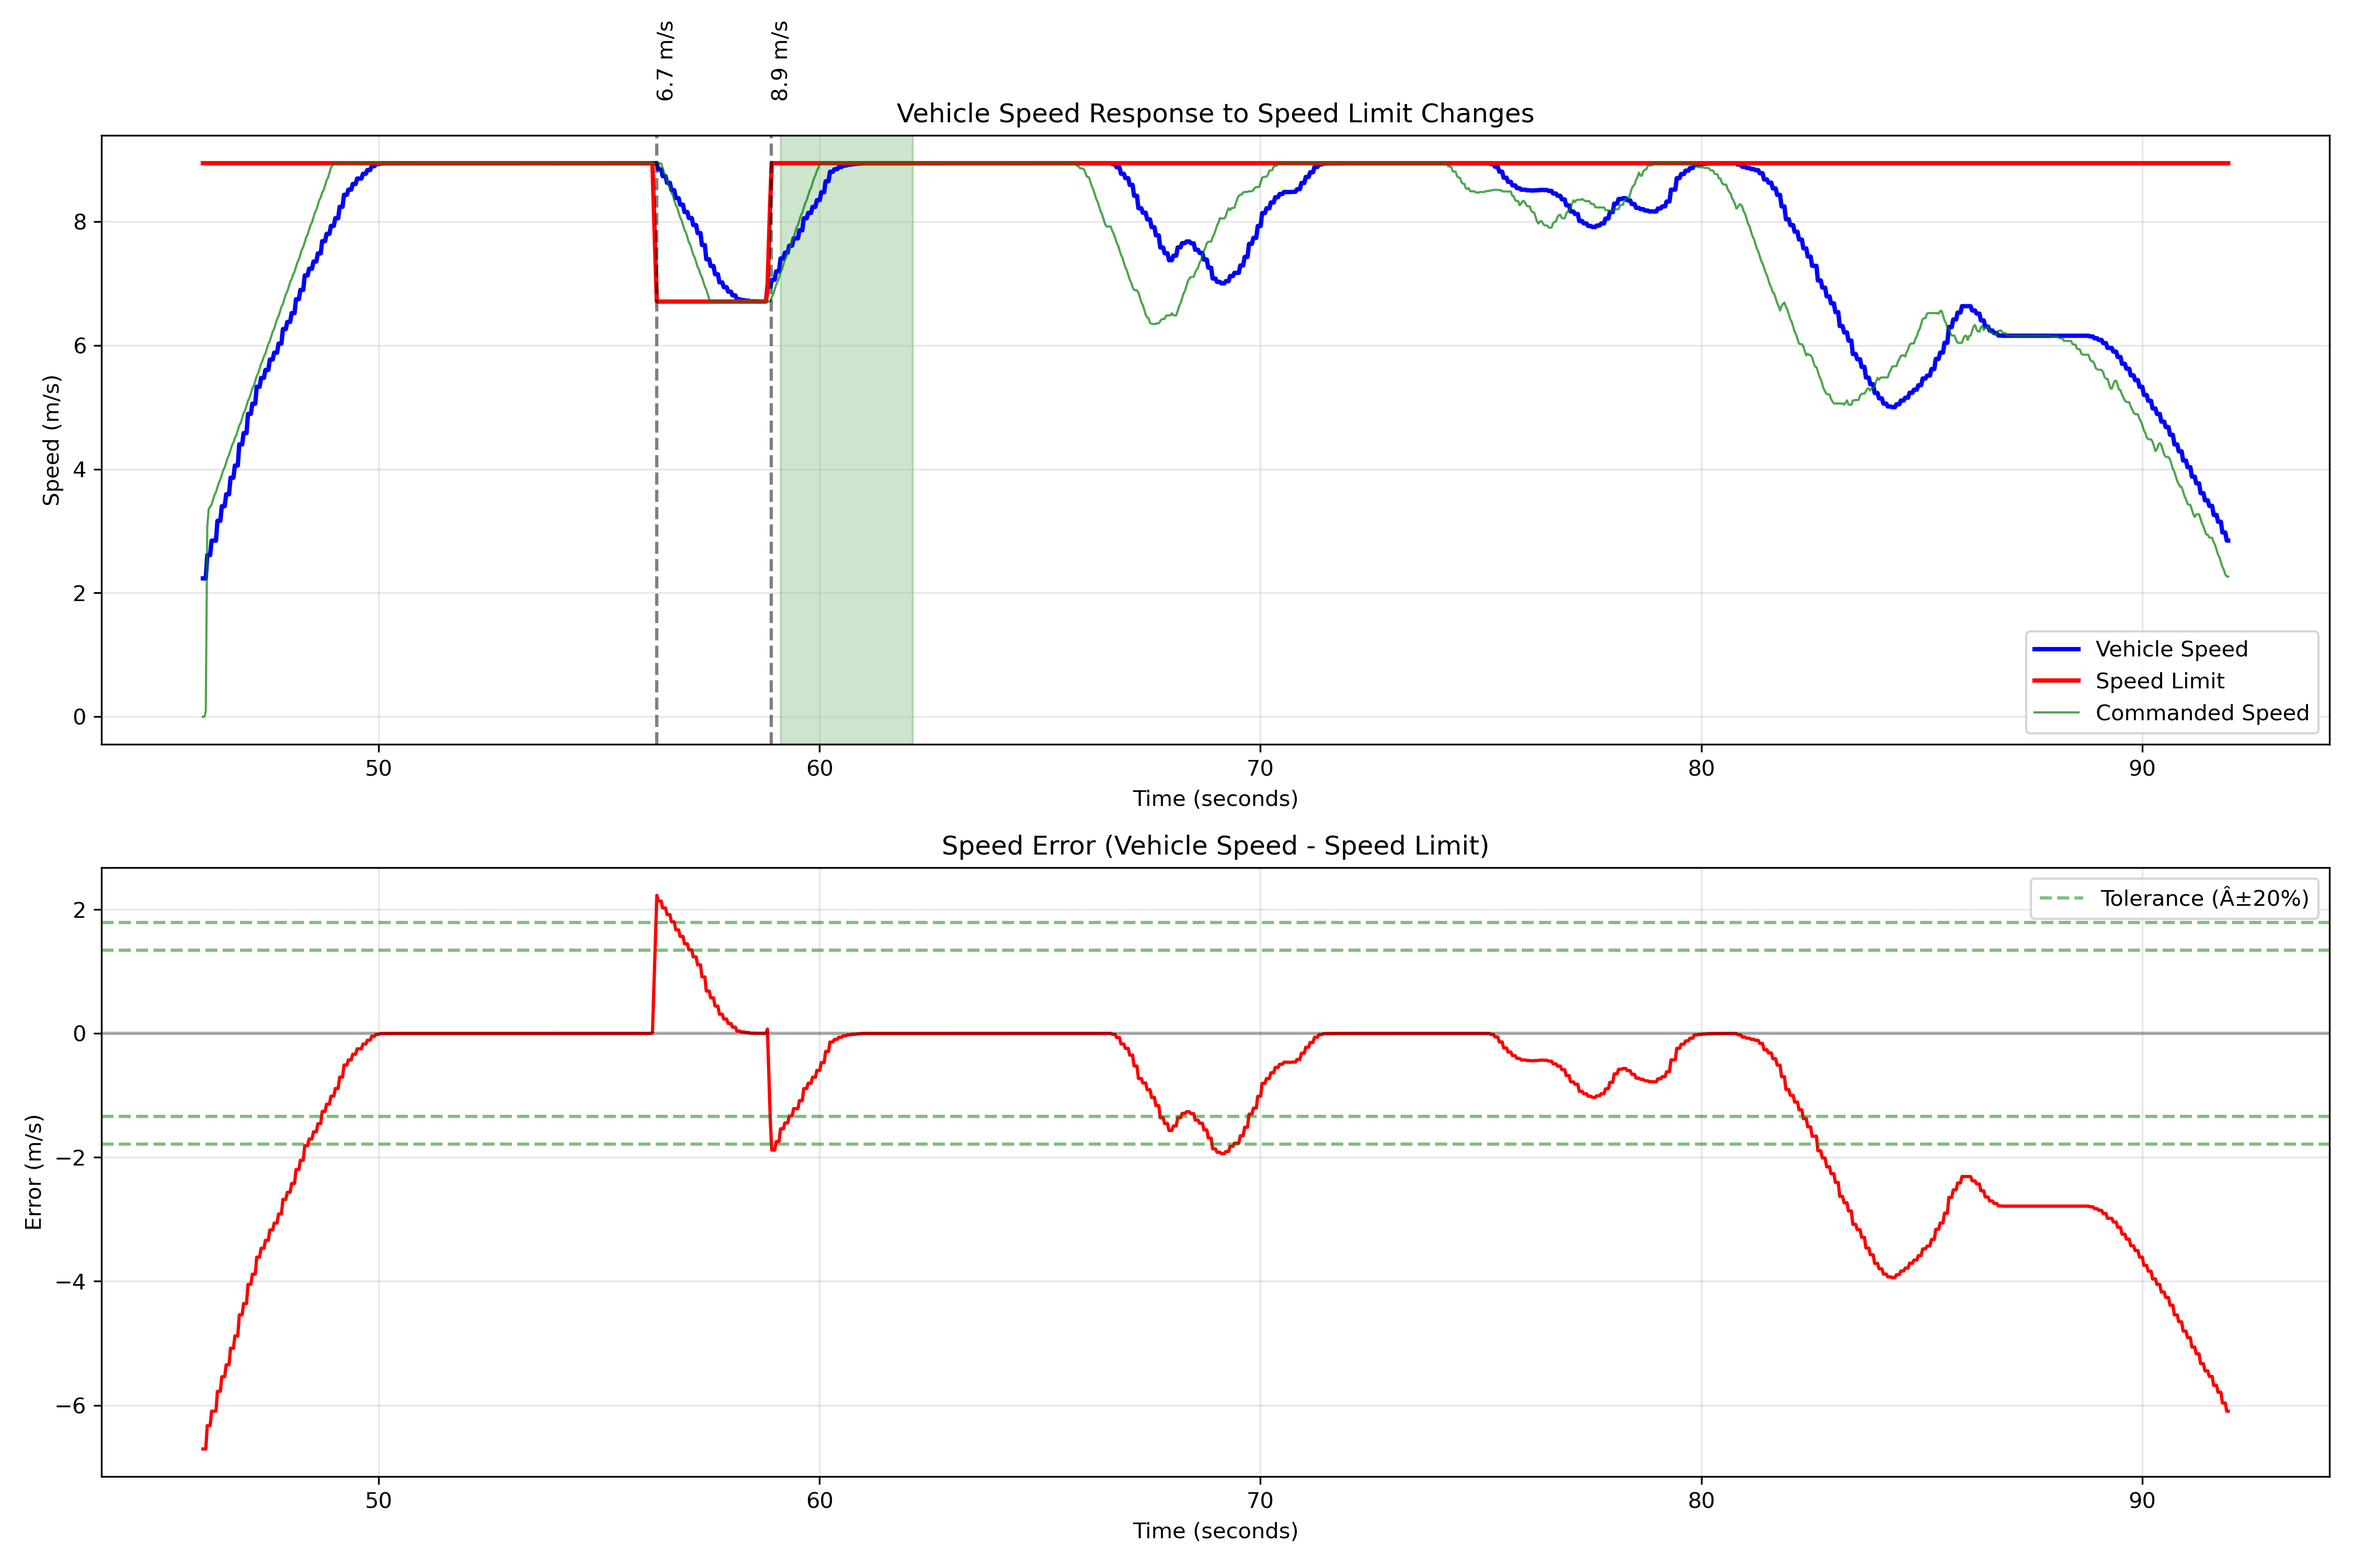
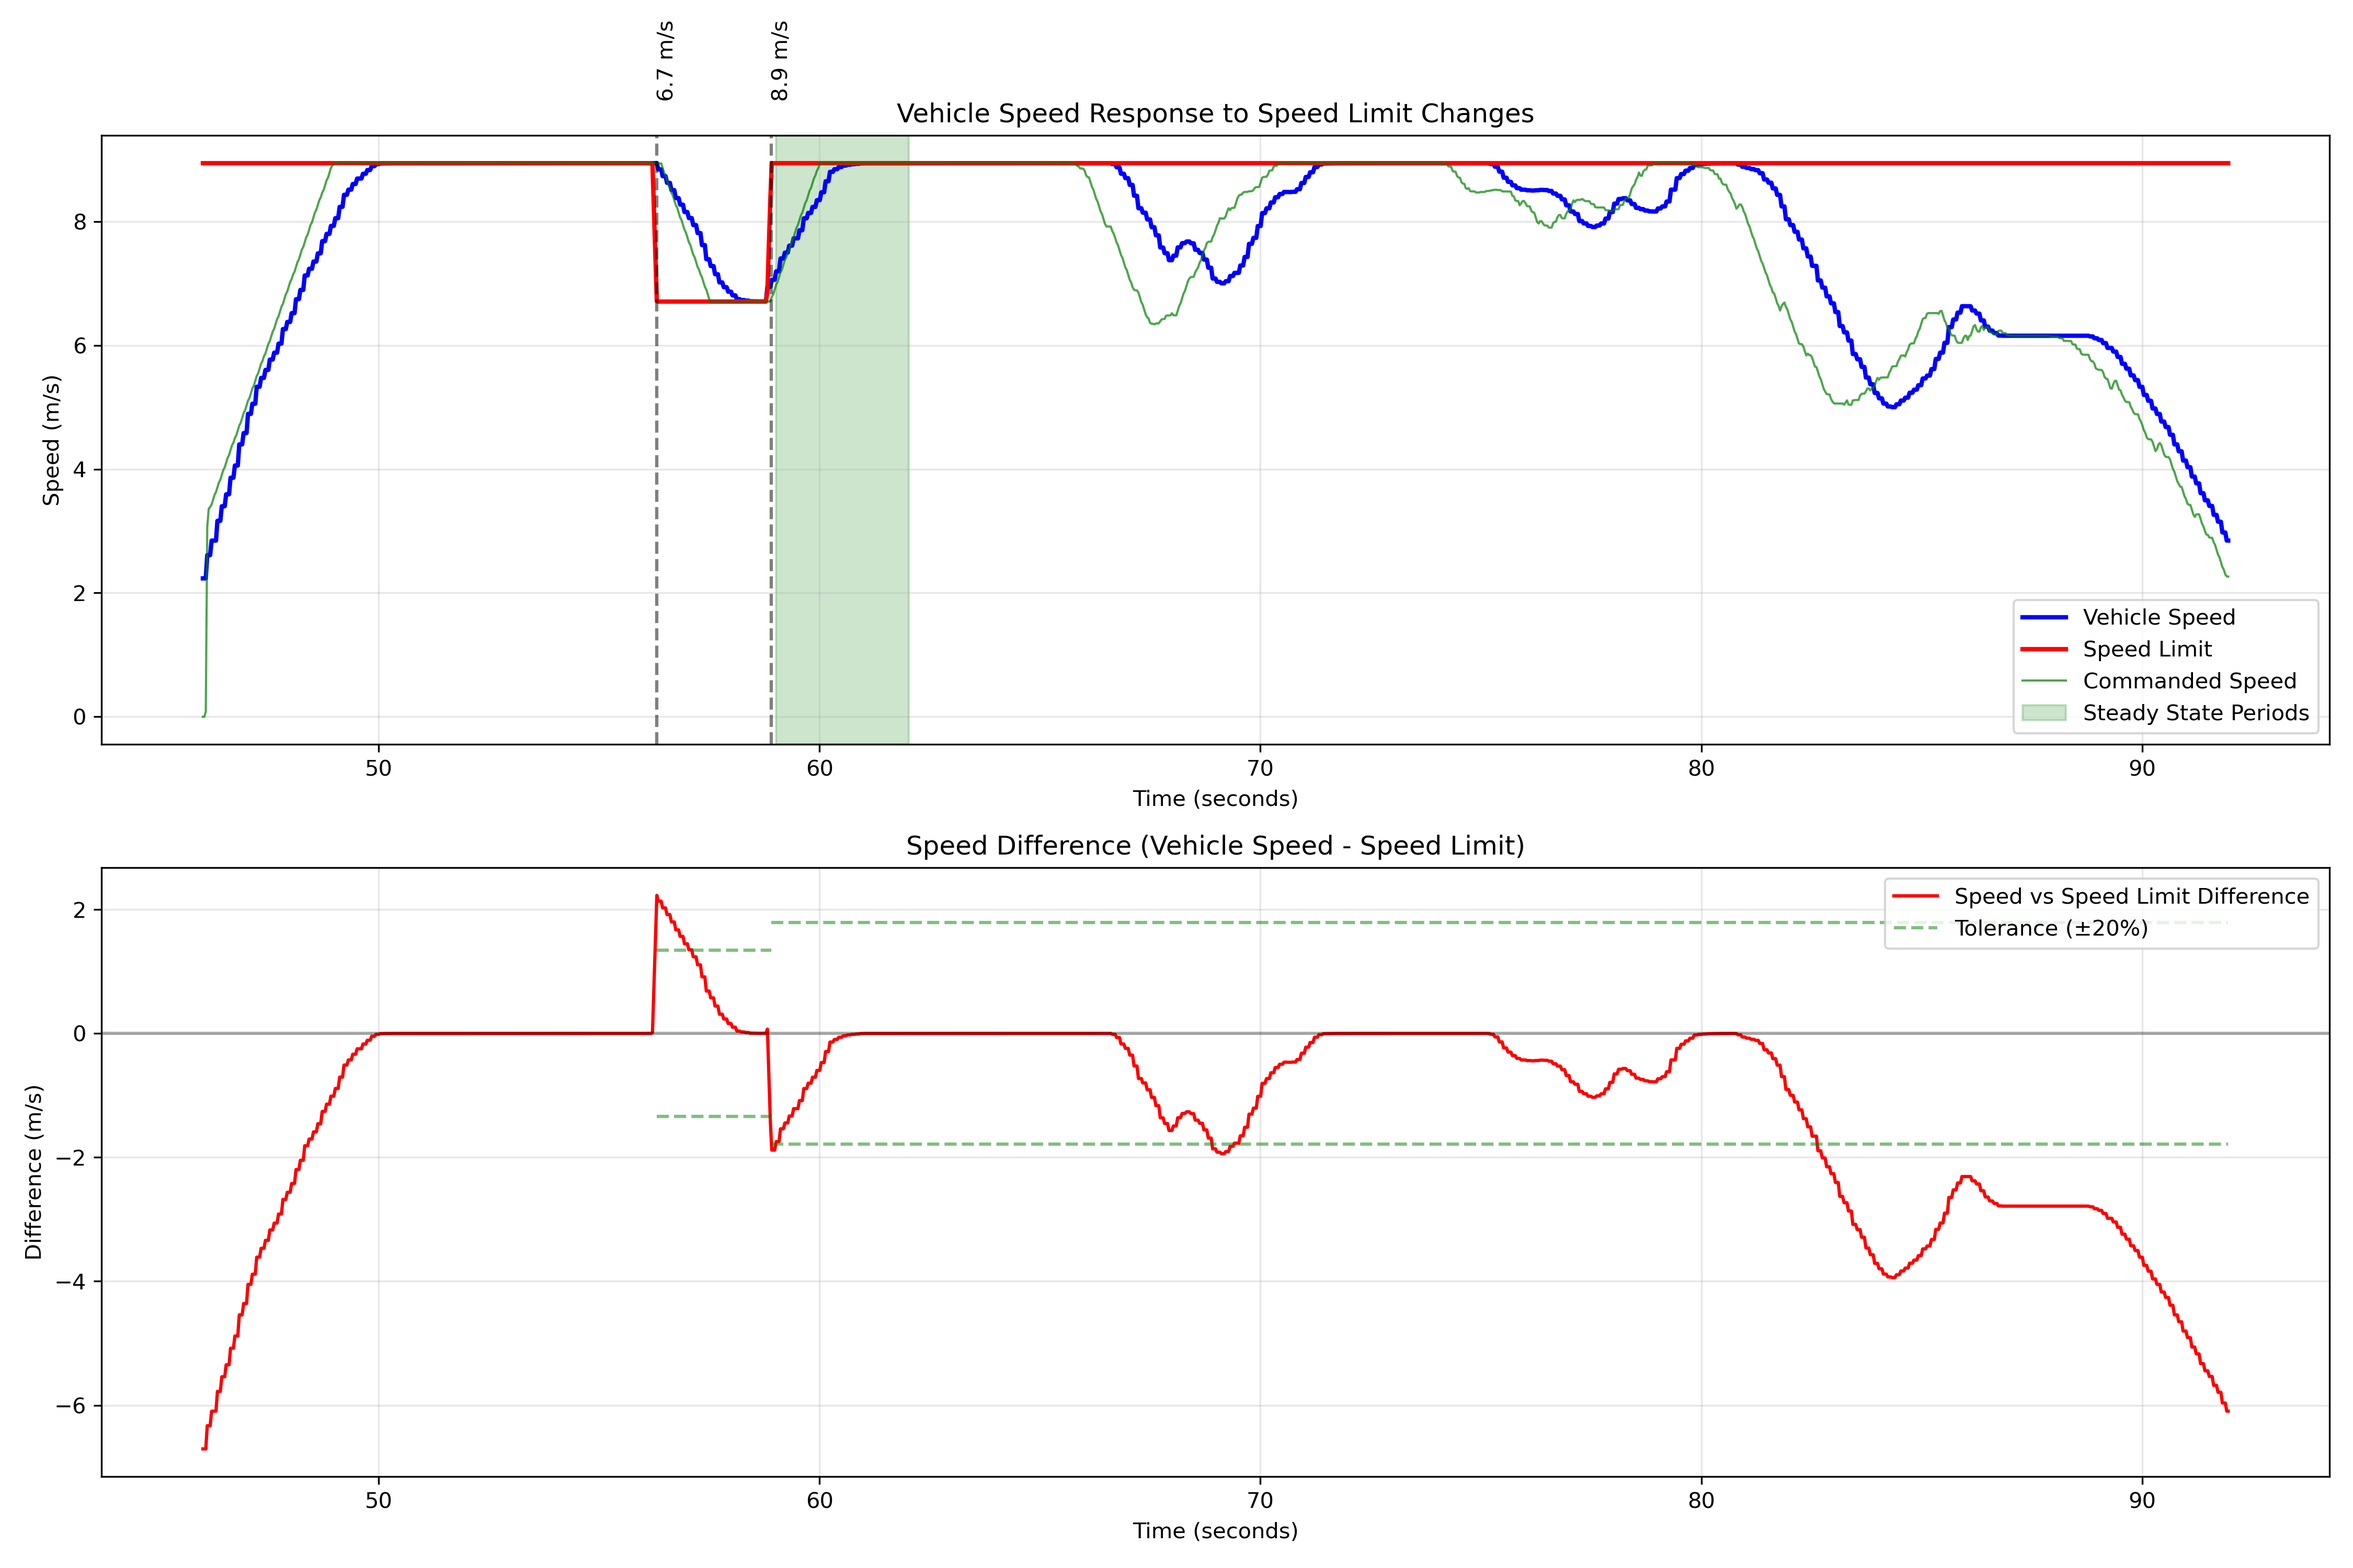
last comments

Changed region(s): [[0.84, 0.372, 0.9956, 0.465], [0.8089, 0.558, 0.9956, 0.62], [0.3733, 0.527, 0.6533, 0.558]]

diff --git a/src/carma-platform/guidance_scripts.py b/src/carma-platform/guidance_scripts.py
@@ -1457,8 +1457,8 @@ def run_speed_limit_change_response_analysis(
     # Plot speed difference between vehicle speed and speed limit
     ax2 = plt.subplot(2, 1, 2, sharex=ax1)
     speed_diff = long_velocities - speed_limits
-    ax2.plot(timestamps, speed_diff, 'r-', linewidth=1.5)
-    ax2.axhline(y=0, color='k', linestyle='-', alpha=0.3, label='Speed vs Speed Limit Difference')
+    ax2.plot(timestamps, speed_diff, 'r-', linewidth=1.5, label='Speed vs Speed Limit Difference')
+    ax2.axhline(y=0, color='k', linestyle='-', alpha=0.3)
 
     tolerance_added_to_legend = False
 
@@ -2057,8 +2057,7 @@ def main():
     Main function to run the analysis scripts.
     """
     # Example usage of the functions
-    # Replace with actual MCAP file path
-    mcap_path = "/workspaces/carma_ws/src/analysis-data/rosbag2_2025-04-11_032029/rosbag2_2025-04-11_032029_0.mcap"
+    mcap_path = "/path/to/your/mcap_file.mcap"
     run_speed_limit_change_response_analysis(mcap_path)
 
 if __name__ == "__main__":
